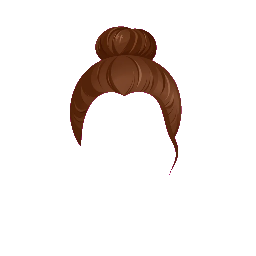
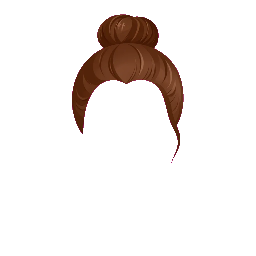
Align bun hairstyle to sit on the head

Changed region(s): [[0.25, 0.0312, 0.7188, 0.6562]]

diff --git a/index.html b/index.html
@@ -1002,7 +1002,7 @@ const HAIR_TINTS=[
 const AV_PAINTS=[{id:'none',label:'None'},{id:'woad',label:'Woad'},{id:'vine',label:'Vine'}];
 let CH={name:'',base:'mfair',hair:'short',tint:0,paint:'none'};
 function avBaseGender(id){ const b=AV_BASES.find(x=>x.id===id); return b?b.gender:'Other'; }
-const AV_V='4';   // bump when avatar art changes, to bypass browser cache
+const AV_V='5';   // bump when avatar art changes, to bypass browser cache
 function avatarHTML(c,size){
   c=c||CH; const s=size||160;
   const base=c.base||'mfair', hair=c.hair||'bald', paint=c.paint||'none';